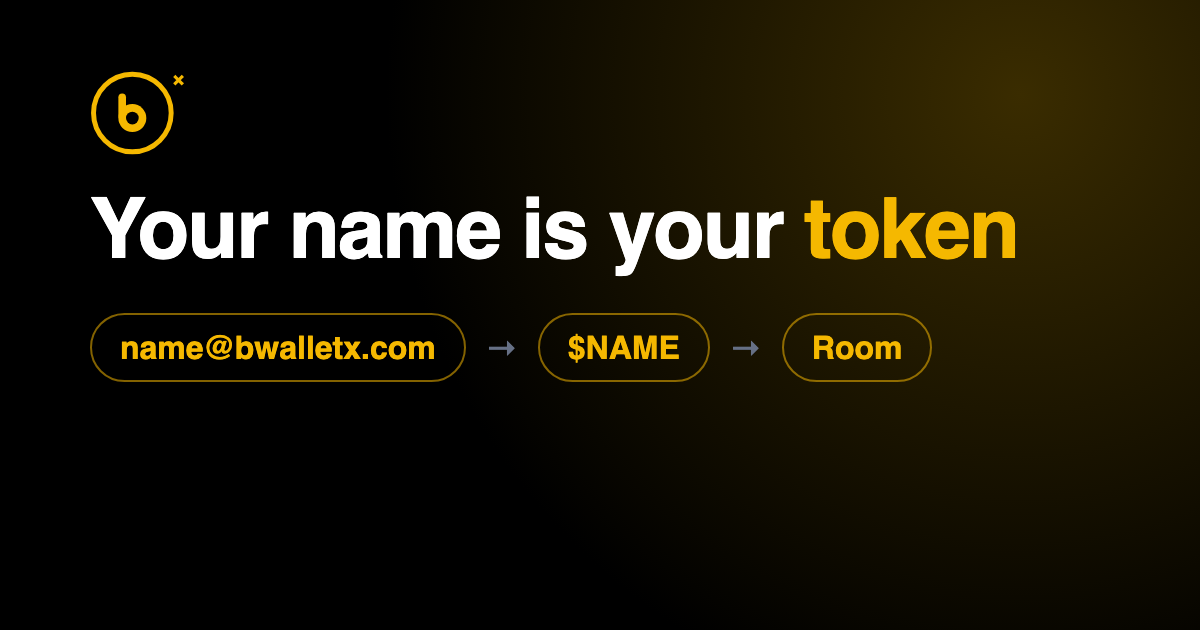
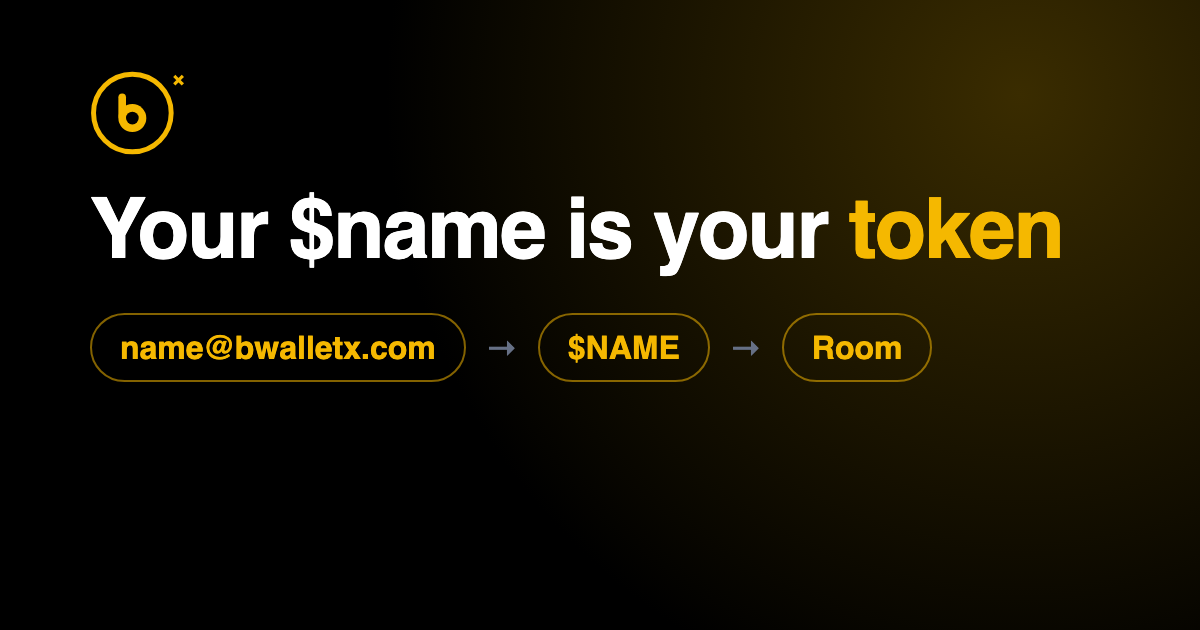
Friends: 'Your $name is your token'

Changed region(s): [[0.2467, 0.3016, 0.8942, 0.4524]]

diff --git a/friends.html b/friends.html
@@ -8,14 +8,14 @@
     <meta property="og:type" content="website" />
     <meta property="og:url" content="https://bwalletx.com/friends" />
     <meta property="og:site_name" content="bWalletX" />
-    <meta property="og:title" content="bWalletX Friends: your name is your token" />
+    <meta property="og:title" content="bWalletX Friends: your $name is your token" />
     <meta property="og:description" content="Handles, tokenised handles, a market for user tokens, and chat rooms you enter by holding them." />
     <meta property="og:image" content="https://bwalletx.com/og-friends.png" />
     <meta property="og:image:width" content="1200" />
     <meta property="og:image:height" content="630" />
     <meta property="og:image:alt" content="bWalletX Friends: name, token, room" />
     <meta name="twitter:card" content="summary_large_image" />
-    <meta name="twitter:title" content="bWalletX Friends: your name is your token" />
+    <meta name="twitter:title" content="bWalletX Friends: your $name is your token" />
     <meta name="twitter:description" content="Handles, tokenised handles, a market for user tokens, and chat rooms you enter by holding them." />
     <meta name="twitter:image" content="https://bwalletx.com/og-friends.png" />
     <link rel="icon" href="/favicon.ico" />
@@ -46,7 +46,7 @@
     </header>
     <main class="ext">
       <img src="/logo.svg" alt="bWalletX" width="72" height="64" />
-      <h1>Your name is your <span class="gold">token</span></h1>
+      <h1>Your $name is your <span class="gold">token</span></h1>
       <p class="lede">In bWalletX, one name does three jobs: it's where people pay you, it's a token people can hold, and it's the key to your chat room.</p>
       <div class="flow">
         <span class="pill">b0asex.x@bwalletx.com</span><span class="arrow">&rarr;</span>
